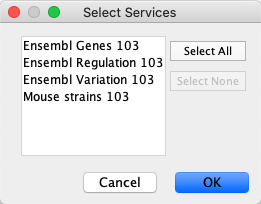
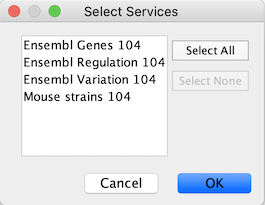
updated text, image

diff --git a/docs/Node_and_Edge_Column_Data.md b/docs/Node_and_Edge_Column_Data.md
@@ -55,7 +55,7 @@ simply drag and drop the file from the desktop into the **Table Panel**, or clic
 
 4.  Depending on what you choose in the **Where to import Table Data**
     drop-down, you will need to select a network collection or
-    specific network. You will also need to select **Importing Type**,
+    specific network. You will also need to select **Import Data as**,
     that is whether the data is node, edge or network table columns.
 
 5.  If the table is not properly delimited in the preview panel, change
@@ -63,10 +63,11 @@ simply drag and drop the file from the desktop into the **Table Panel**, or clic
     delimiter is tab. This step is not necessary for Excel Workbooks.
 
 6.  By default, the first column is designated as the primary key, as 
-    designated by the key ![Key.png](_static/images/Columns/Key.png)
-    icon. To set another column as the key instead, click the arrow at 
-    next to the column title and select the key symbol. Make sure the 
-    column designated as key matches the key in the network.
+    designated by the key ![](_static/images/Columns/Key.png)
+    icon. Make sure the column designated as key matches what's selected 
+    under **Key Column for Network** (i.e. the key in the network. To set 
+    another column as the key instead, click the arrow at next to the column 
+    title and select the key symbol. 
     
 7.  Similarly, to change the data type of a column, for example from 
     integer to string, click the arrow next to the column title, and 
@@ -123,7 +124,7 @@ edge data values refer to two different edges (source and target are
 reversed, though the nodes involved are the same).
 
 Each data column is stored in a separate file. Node and edge data files
-use the same format, and have the suffix ".attrs".
+use the same format, and have the suffix _.attrs_.
 
 Node and edge data may be loaded via the **File → Import → Table** menu options,
 just as data table files are.
@@ -147,16 +148,16 @@ column. The format is as follows:
 
 The first field is always the column name: it cannot contain spaces. If
 present, the class field defines the name of the class of the data
-values. For example, java.lang.String or String for Strings,
-java.lang.Double or Double for floating point values, java.lang.Integer
-or Integer for integer values, etc. If the value is actually a list of
+values. For example, **java.lang.String** or **String** for strings,
+**java.lang.Double** or **Double** for floating point values, **java.lang.Integer**
+or **Integer** for integer values, etc. If the value is actually a list of
 values, the class should be the type of the objects in the list. If no
 class is specified in the header line, Cytoscape will attempt to guess
 the type from the first value. If the first value contains numbers in a
-floating point format, Cytoscape will assume java.lang.Double; if the
+floating point format, Cytoscape will assume **java.lang.Double**; if the
 first value contains only numbers with no decimal point, Cytoscape will
-assume java.lang.Integer; otherwise Cytoscape will assume
-java.lang.String. Note that the first value can lead Cytoscape astray:
+assume **java.lang.Integer**; otherwise Cytoscape will assume
+**java.lang.String**. Note that the first value can lead Cytoscape astray:
 for example,
 
     floatingPointDataColumn
@@ -185,8 +186,8 @@ equals sign; whitespace (spaces and/or tabs) before and after the equals
 sign is ignored. This means that your names and values can contain
 whitespace, but object names cannot contain an equals sign and no
 guarantees are made concerning leading or trailing whitespace. Object
-names must be the Node ID or Edge ID as seen in the left-most column of
-the Table Panel if the data column is to map to anything. These names
+names must be the node ID or edge ID as seen in the left-most column of
+the **Table Panel** if the data column is to map to anything. These names
 must be reproduced exactly, including case, or they will not match.
 
 Edge names are all of the form:
@@ -198,7 +199,7 @@ Specifically, that is
 `sourceName space openParen edgeType closeParen space targetName`
 
 Note that tabs are not allowed in edge names. Tabs can be used to
-separate the edge name from the "=" delimiter, but not within the edge
+separate the edge name from the _=_ delimiter, but not within the edge
 name itself. Also note that this format is different from the
 specification of interactions in the SIF file format. To be explicit: a
 SIF entry for the previous interaction would look like
@@ -221,7 +222,7 @@ elements in its list, while the second object has a list with only one
 element. In the case of a list every data value uses list syntax (i.e.
 parentheses), and each element is of the same class. Again, the class
 will be inferred if it is not specified in the header line. Lists are
-not supported by Styles and so can't be mapped to network properties.
+not supported by **Styles** and so can't be mapped to network properties.
 
 <a id="newline_feature"> </a>
 ### Newline Feature
@@ -240,8 +241,8 @@ inserting into the data value. For example:
 
 When Cytoscape is started, the **Table Panel** appears in the bottom
 right of the main Cytoscape window. This browser can be hidden and
-restored using the F5 key or the **View → Show/Hide Table Panel** menu
-option. Like other Panels, the browser can be undocked by pressing the
+restored using the F5 key or by unchecking the **View → Show Table Panel** menu
+option. Like other panels, the browser can be undocked by pressing the
 little icon in the top right corner.
 
 To swap between displaying node, edge, and network data tables use the
@@ -261,7 +262,7 @@ close the column list).
 
 Most column values can be edited by double-clicking the cell (only the
 ID cannot be edited). Newline characters can be inserted into String
-columns either by pressing **Enter** or by typing "\\n". Once finished
+columns either by pressing **Enter** or by typing _\\n_. Once finished
 editing, click outside of the editing cell in the Table Panel or press
 **Shift-Enter** to save your edits. Pressing **Esc** while editing will
 undo any changes.
@@ -311,17 +312,17 @@ via web services, for example from
 <a id="basic_operation"> </a>
 ### Basic Operation
 
-1.  Load a network, for example galFiltered.sif.
+1.  Load a network, for example _galFiltered.sif_.
 
 2.  Select **File → Import → Table from Public Databases...**.
 
 3.  You will first be asked to select from a set of web services. For
-    this example, we will choose **ENSEMBL GENES 103**.
+    this example, we will choose **ENSEMBL GENES 104**.
 
 ![](_static/images/Columns/select_services.png)
 
 1.  In the **Import Data Table from Public Databases** dialog, select a
-    **Service**. Since galFiltered.sif is a yeast network, select
+    **Service**. Since the galFiltered network is from yeast, select
     **ENSEMBL GENES - SACCHAROMYCES CEREVISIAE**.
 
 2.  For **Key Column in Cytoscape**, select *COMMON* for **Column**

diff --git a/docs/Cytoscape.js_and_Cytoscape.md b/docs/Cytoscape.js_and_Cytoscape.md
@@ -26,8 +26,6 @@ using Cytoscape.js and this new **Export to Cytoscape.js** feature.
 
     ![](_static/images/CytoscapeJs/sampleExport.png)
     <br>
--   [Interactive example (galFiltered.sif rendered with
-    Cytoscape.js 2.0.3)](http://chianti.ucsd.edu/~kono/dist/)
 
 <a id="differences_and_shared_concepts"> </a>
 ### Differences and Shared Concepts
